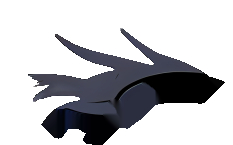
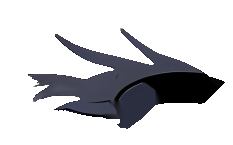
The hood sits behind the hair
The hood (z 5.5) was drawn over the tufts (z 4): a head that slid or rolled
left its hair cut off wherever the exposed hood overlapped it, which is the
washed-out "ghost" hair in the owner's screenshot. The tufts now sit at
z 5.4, above the collar, and the hood at 5.3 between the two; the head-on
hood stays at 5.6 under tuftsOn at 5.9. The hair and the collar never touch,
so the only pixel change in the bake is the tufts' margin, which no longer
grows under the collar. The model suite asserts each hood sits between the
collar and its hair.

Goldens updated on purpose (npm run test:golden -- --update); pixels of
102,400 measured before the update: turn-left-limit 375, turn-left-mid 359,
half-blink-turned 359, scarf-settled 353, nod-down 321, turn-right-limit
234, tilt 165, turn-right-mid 156, talking 150, lean-faceflip 119. Diff
sheet in test/out/golden/.

Claude-Session: https://claude.ai/code/session_01UYebLArnEWFC65u5UEL1hn

Changed region(s): [[0.1803, 0.7448, 0.5408, 1.0]]

diff --git a/scripts/bake/cut.js b/scripts/bake/cut.js
@@ -14,7 +14,9 @@ export const PART_SPECS = [
   { name: 'body', parent: 'root', joint: 'hips', z: 1 },
   { name: 'armLeft', parent: 'root', joint: 'neck', farJoint: 'shoulderLeft', z: 2 },
   { name: 'armRight', parent: 'root', joint: 'neck', farJoint: 'shoulderRight', z: 3 },
-  { name: 'tufts', parent: 'head', joint: 'tufts', z: 4 },
+  /* Above the collar so the hood behind the head, which sits over the collar,
+   * stays under the hair; the hair and the collar never touch. */
+  { name: 'tufts', parent: 'head', joint: 'tufts', z: 5.4 },
   /* The neck scarf is drawn behind the head, though the drawing has it in
    * front of the chin. Which is in front only matters once they move apart,
    * and then it decides everything: a collar in front covered the visor when

diff --git a/scripts/bake/bake.js b/scripts/bake/bake.js
@@ -64,7 +64,7 @@ export async function bakeModel({ artwork, headOn, minShard = MIN_SHARD }) {
   const headPart = parts.find((p) => p.name === 'head');
   const headSpan = headPart ? spanOf(headPart, width, height)
     : { cx: markers.headX, cy: markers.headY, r: markers.headR };
-  if (headPart) parts.push(hoodOf(headPart, 'hood', headPart.z - 0.5));
+  if (headPart) parts.push(hoodOf(headPart, 'hood', headPart.z - 0.7));
 
   const records = parts.map((part) => describe(part, { width, height, aspect, markers, sockets, spine }));
   const textures = parts.map((part) => textureOf(part));
